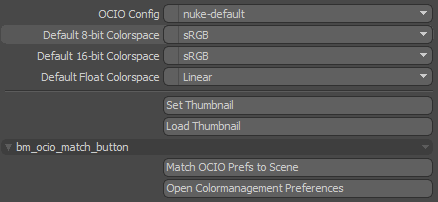
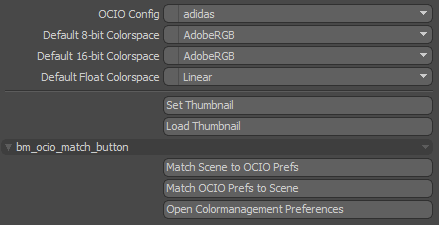
update screenshot an readme with added command

diff --git a/README.md b/README.md
@@ -8,7 +8,7 @@ When opening a scene that uses a different OCIO config and settings than current
 ![Match OCIO preferences to Scene](screenshots/dialog_OCIO_difference.png)
 
 ### FX item Scene Properties extension
-The FX item displays the OCIO settings for the current scene. This kit adds two buttons.
+The FX item displays the OCIO settings for the current scene. This kit adds three buttons.
 
 ![Scene properties addition](screenshots/scene_properties.png)
 
